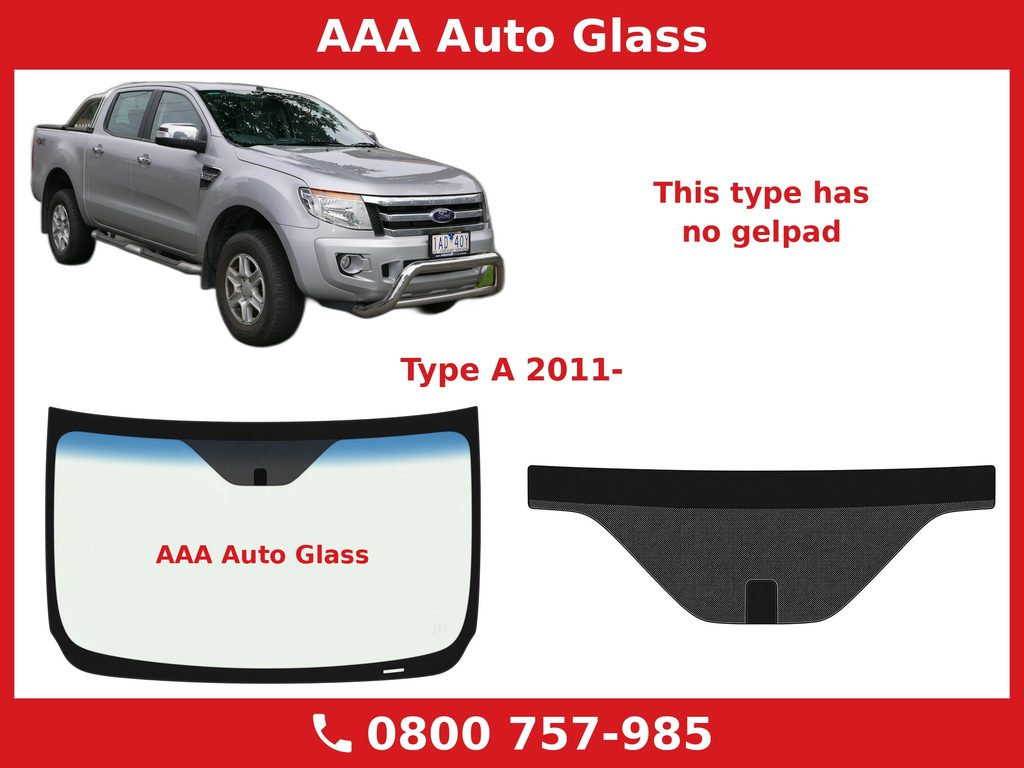
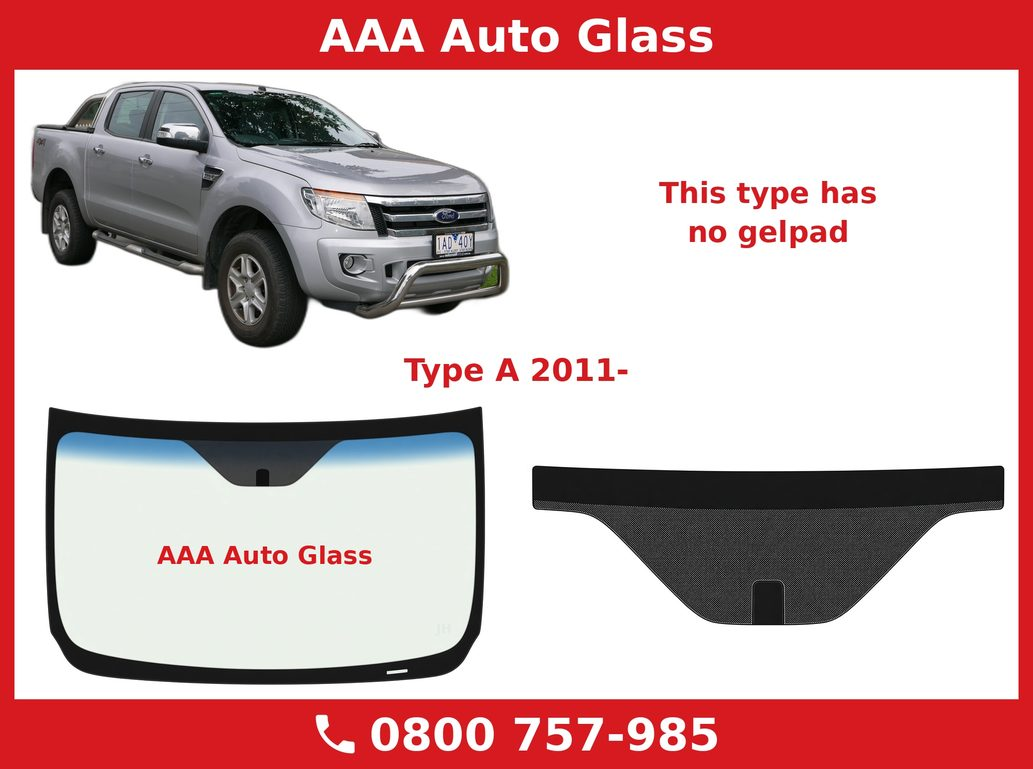
Ford Ranger type images: re-export at 1033x769 fingerprint size

diff --git a/makes/ford-ranger.html b/makes/ford-ranger.html
@@ -220,43 +220,43 @@ footer ul li span{color:rgba(255,255,255,.7);font-size:13px}
 <p class="ws-identify">Not sure which type you have? Look at the black area behind your rear-view mirror from outside: plain glass, a rain sensor opening, or a forward camera. Tell us your year and what you see, or send us a photo, and we'll confirm the right windscreen.</p>
 <div class="ws-grid">
 <article class="ws-card" id="ford-ranger-2011-2022-type-g">
-<img src="../images/ford-ranger/ford-ranger-2011-2022-windscreen-type-g.jpg" alt="Illustration of the Ford Ranger/Everest 2018-on windscreen, Type G: large black patch behind the mirror with a rain sensor opening on the passenger side and an ADAS camera opening" width="1024" height="768" loading="lazy" decoding="async">
+<img src="../images/ford-ranger/ford-ranger-2011-2022-windscreen-type-g.jpg" alt="Illustration of the Ford Ranger/Everest 2018-on windscreen, Type G: large black patch behind the mirror with a rain sensor opening on the passenger side and an ADAS camera opening" width="1033" height="769" loading="lazy" decoding="async">
 <div class="ws-body">
 <p class="ws-title">Type G: Ford Ranger/Everest, <span class="nw">[18- ]RSA(Passenger</span> Side),(Large Patch),Bracket,ACO,ADAS 1CAM, Topside Mould+ Retainer</p>
 <a href="tel:0800757985" class="btn btn-blue ws-btn">📞 Call 0800 757-985 about Type G</a>
 </div></article>
 <article class="ws-card" id="ford-ranger-2011-2022-type-f">
-<img src="../images/ford-ranger/ford-ranger-2011-2022-windscreen-type-f.jpg" alt="Illustration of the Ford Ranger/Everest 2015-2018 windscreen, Type F: small black patch behind the mirror with a centred rain sensor opening and an ADAS camera opening" width="1024" height="768" loading="lazy" decoding="async">
+<img src="../images/ford-ranger/ford-ranger-2011-2022-windscreen-type-f.jpg" alt="Illustration of the Ford Ranger/Everest 2015-2018 windscreen, Type F: small black patch behind the mirror with a centred rain sensor opening and an ADAS camera opening" width="1033" height="769" loading="lazy" decoding="async">
 <div class="ws-body">
 <p class="ws-title">Type F: Ford Ranger/Everest, <span class="nw">[15-18]</span> RSA (In Centre), (Small Patch), Bracket,ACO,ADAS 1CAM, Topside Mould+ Retainer</p>
 <a href="tel:0800757985" class="btn btn-blue ws-btn">📞 Call 0800 757-985 about Type F</a>
 </div></article>
 <article class="ws-card" id="ford-ranger-2011-2022-type-e">
-<img src="../images/ford-ranger/ford-ranger-2011-2022-windscreen-type-e.jpg" alt="Illustration of the Ford Ranger ute 2015-on windscreen, Type E: round rain sensor opening in the black patch behind the mirror" width="1024" height="768" loading="lazy" decoding="async">
+<img src="../images/ford-ranger/ford-ranger-2011-2022-windscreen-type-e.jpg" alt="Illustration of the Ford Ranger ute 2015-on windscreen, Type E: round rain sensor opening in the black patch behind the mirror" width="1033" height="769" loading="lazy" decoding="async">
 <div class="ws-body">
 <p class="ws-title">Type E: Ford Ranger Ute, <span class="nw">[15- ]</span> Rain Sensor (Round Opening), Topside Mould+ Retainer</p>
 <a href="tel:0800757985" class="btn btn-blue ws-btn">📞 Call 0800 757-985 about Type E</a>
 </div></article>
 <article class="ws-card" id="ford-ranger-2011-2022-type-d">
-<img src="../images/ford-ranger/ford-ranger-2011-2022-windscreen-type-d.jpg" alt="Illustration of the Ford Ranger 2011-on windscreen, Type D: teardrop rain sensor opening behind the mirror, with Low-E coating" width="1024" height="768" loading="lazy" decoding="async">
+<img src="../images/ford-ranger/ford-ranger-2011-2022-windscreen-type-d.jpg" alt="Illustration of the Ford Ranger 2011-on windscreen, Type D: teardrop rain sensor opening behind the mirror, with Low-E coating" width="1033" height="769" loading="lazy" decoding="async">
 <div class="ws-body">
 <p class="ws-title">Type D: Ford Ranger, <span class="nw">[11- ]</span> Rain Sensor (Teardrop Opening), Low-E Coating, Topside Mould+ Retainer</p>
 <a href="tel:0800757985" class="btn btn-blue ws-btn">📞 Call 0800 757-985 about Type D</a>
 </div></article>
 <article class="ws-card" id="ford-ranger-2011-2022-type-c">
-<img src="../images/ford-ranger/ford-ranger-2011-2022-windscreen-type-c.jpg" alt="Illustration of the Ford Ranger 2011-on windscreen, Type C: teardrop rain sensor opening behind the mirror" width="1024" height="768" loading="lazy" decoding="async">
+<img src="../images/ford-ranger/ford-ranger-2011-2022-windscreen-type-c.jpg" alt="Illustration of the Ford Ranger 2011-on windscreen, Type C: teardrop rain sensor opening behind the mirror" width="1033" height="769" loading="lazy" decoding="async">
 <div class="ws-body">
 <p class="ws-title">Type C: Ford Ranger, <span class="nw">[11- ]</span> RSA (Teardrop Opening), Topside Mould+ Retainer</p>
 <a href="tel:0800757985" class="btn btn-blue ws-btn">📞 Call 0800 757-985 about Type C</a>
 </div></article>
 <article class="ws-card" id="ford-ranger-2011-2022-type-b">
-<img src="../images/ford-ranger/ford-ranger-2011-2022-windscreen-type-b.jpg" alt="Illustration of the Ford Ranger 2011-on windscreen, Type B: Low-E coating, plain mirror area with no sensor opening" width="1024" height="768" loading="lazy" decoding="async">
+<img src="../images/ford-ranger/ford-ranger-2011-2022-windscreen-type-b.jpg" alt="Illustration of the Ford Ranger 2011-on windscreen, Type B: Low-E coating, plain mirror area with no sensor opening" width="1033" height="769" loading="lazy" decoding="async">
 <div class="ws-body">
 <p class="ws-title">Type B: Ford Ranger, <span class="nw">[11- ]</span> Low-E Coating, Retainer</p>
 <a href="tel:0800757985" class="btn btn-blue ws-btn">📞 Call 0800 757-985 about Type B</a>
 </div></article>
 <article class="ws-card" id="ford-ranger-2011-2022-type-a">
-<img src="../images/ford-ranger/ford-ranger-2011-2022-windscreen-type-a.jpg" alt="Illustration of the Ford Ranger 2011-on windscreen, Type A: plain mirror area with no sensor or camera opening" width="1024" height="768" loading="lazy" decoding="async">
+<img src="../images/ford-ranger/ford-ranger-2011-2022-windscreen-type-a.jpg" alt="Illustration of the Ford Ranger 2011-on windscreen, Type A: plain mirror area with no sensor or camera opening" width="1033" height="769" loading="lazy" decoding="async">
 <div class="ws-body">
 <p class="ws-title">Type A: Ford Ranger, <span class="nw">[11- ]</span> Retainer</p>
 <a href="tel:0800757985" class="btn btn-blue ws-btn">📞 Call 0800 757-985 about Type A</a>
